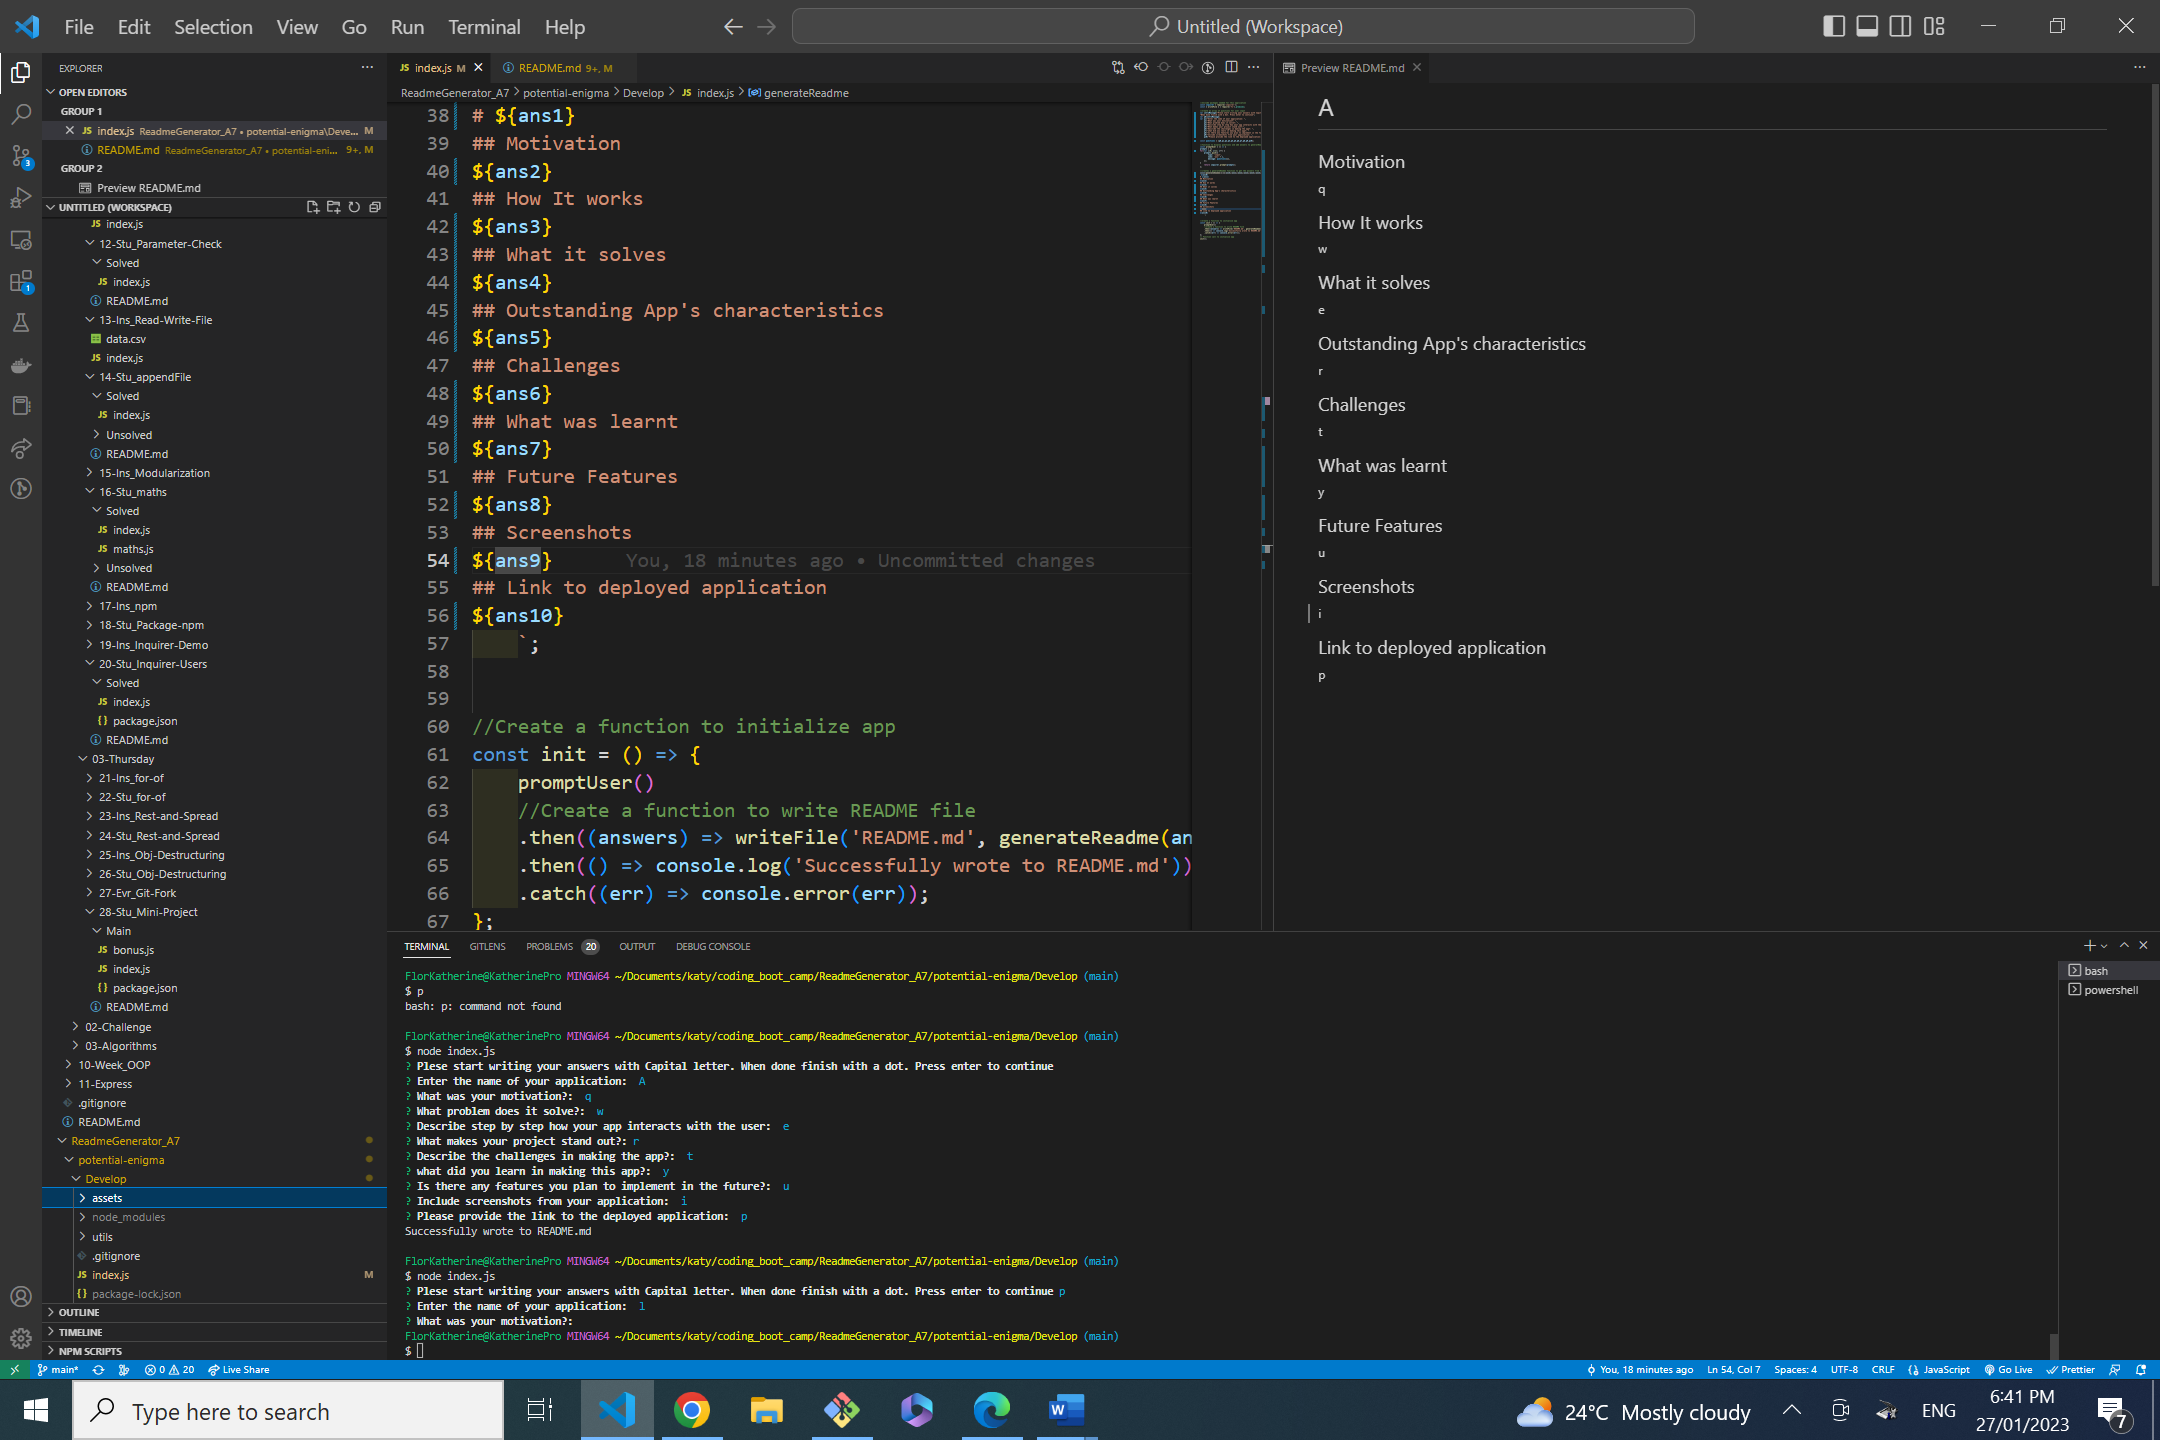
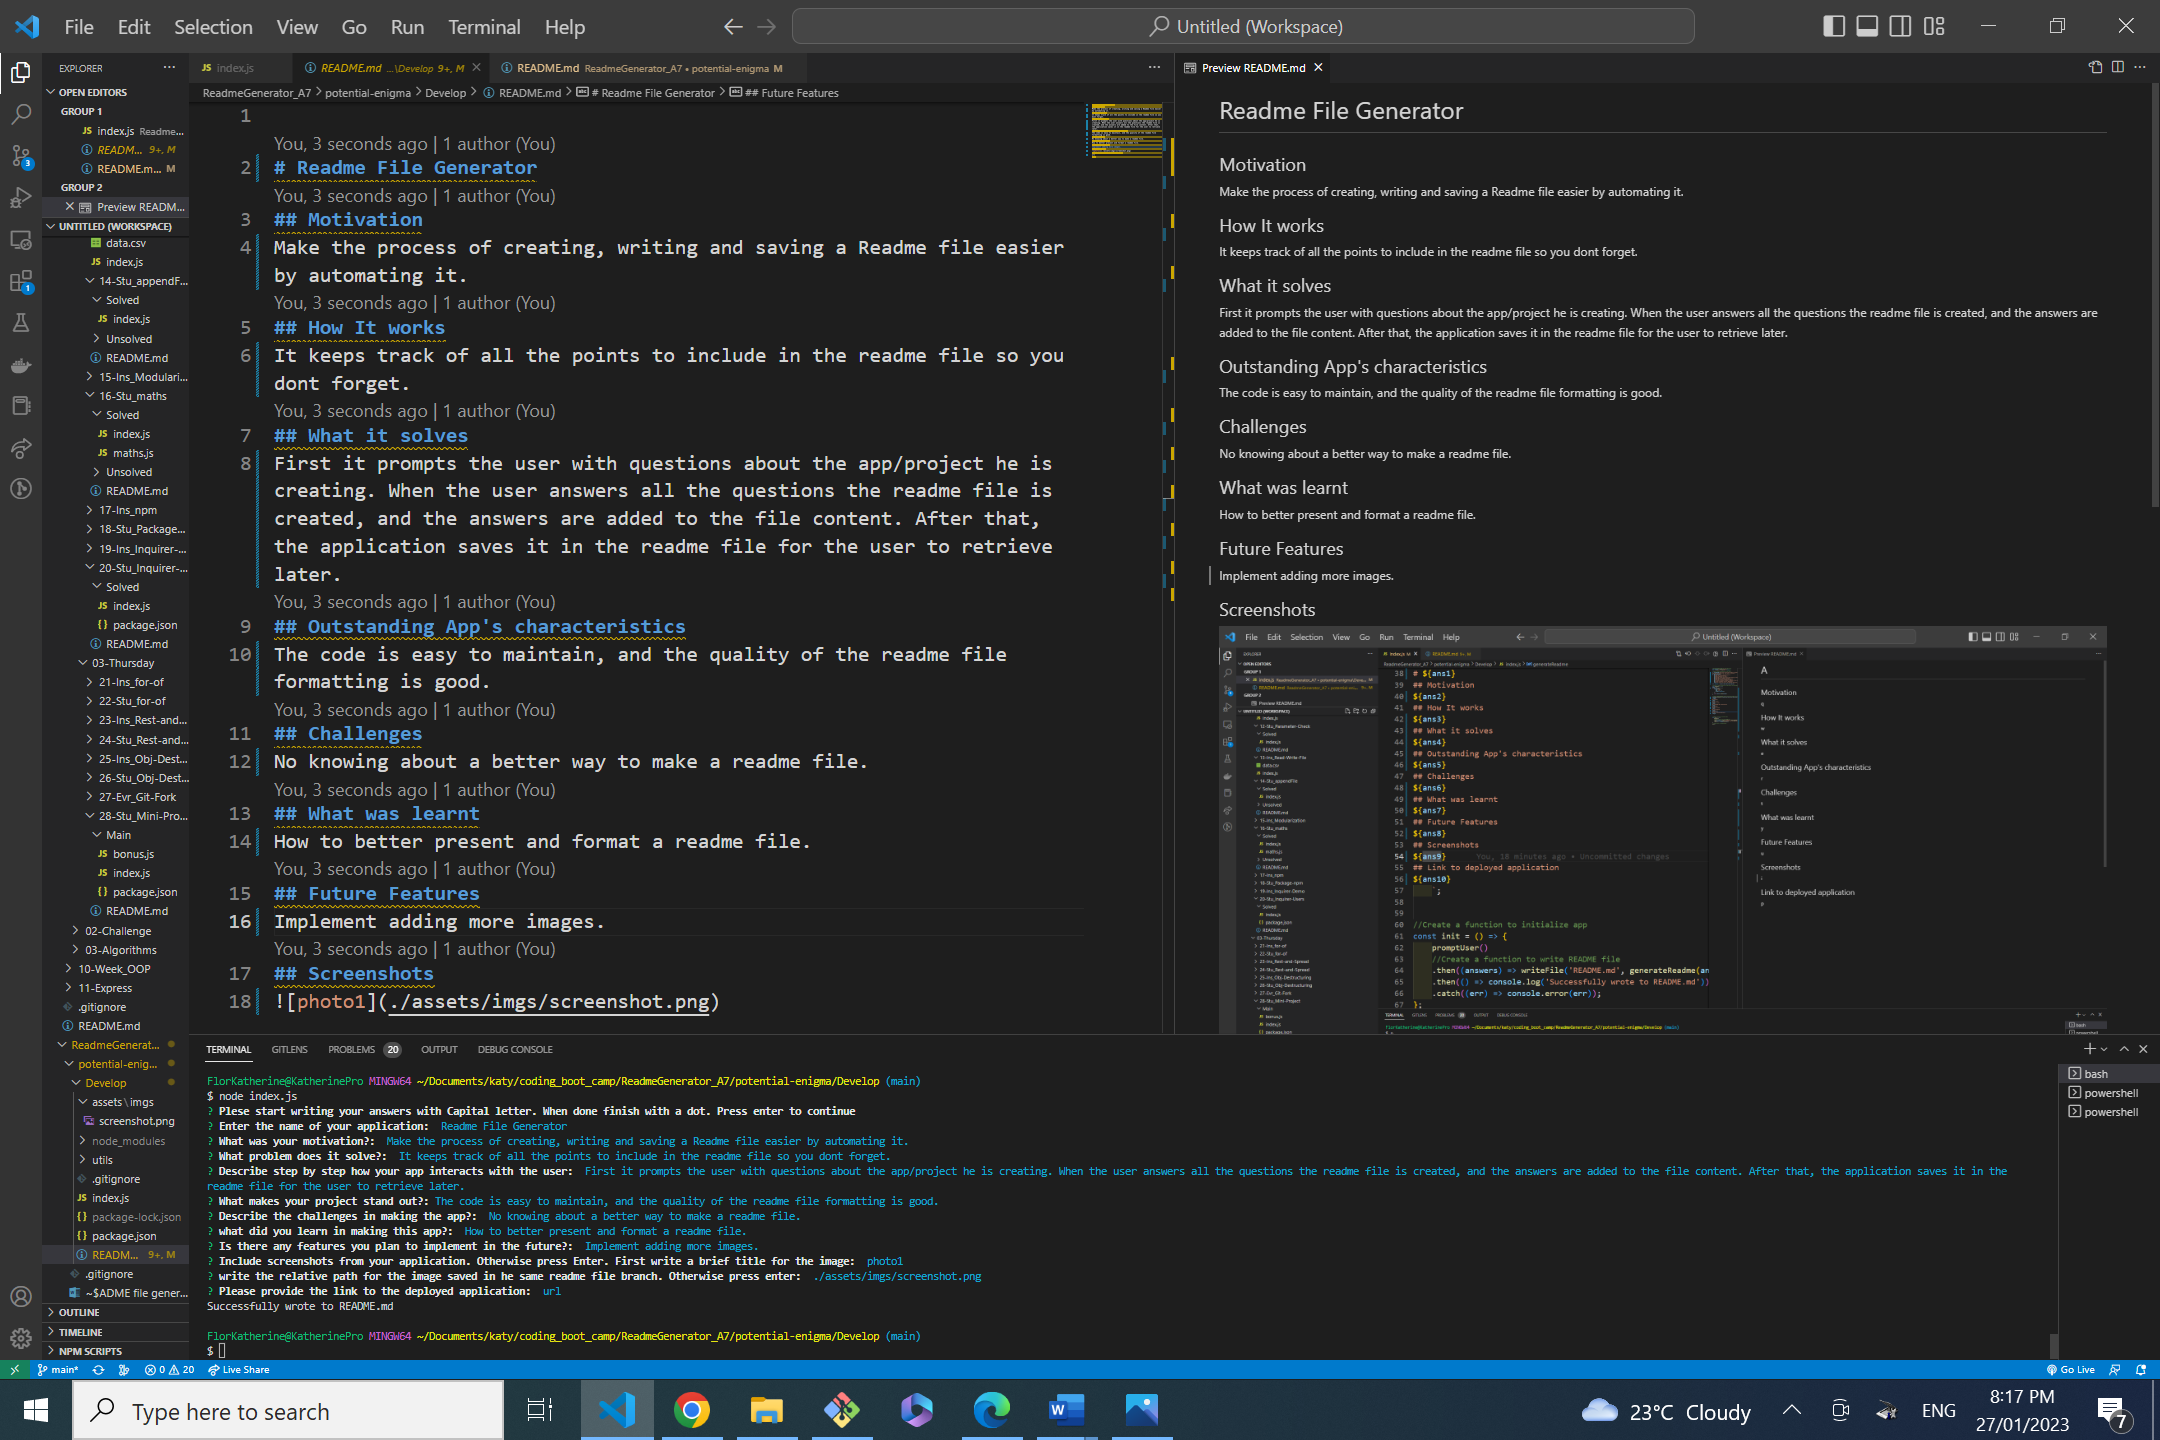
Final commit.

diff --git a/README.md b/README.md
@@ -1,3 +1,38 @@
-# Professional README Generator Starter Code
 
-[How to create a Professional README](https://coding-boot-camp.github.io/full-stack/github/professional-readme-guide)
+# Readme File Generator
+
+## Motivation
+
+Make the process of creating, writing and saving a Readme file easier by automating it.
+
+## How It works
+
+It keeps track of all the points to include in the readme file so you dont forget.
+
+## What it solves
+
+First it prompts the user with questions about the app/project he is creating. When the user answers all the questions the readme file is created, and the answers are added to the file content. After that, the application saves it in the readme file for the user to retrieve later.
+
+## Outstanding App's characteristics
+
+The code is easy to maintain, and the quality of the readme file formatting is good.
+
+## Challenges
+
+No knowing about a better way to make a readme file.
+
+## What was learnt
+
+How to better present and format a readme file.
+
+## Future Features
+
+Implement adding more images.
+
+## Screenshots
+
+![photo1](./Develop/assets/imgs/screenshot.png)
+
+## Link to deployed application
+
+<https://katita81.github.io/potential-enigma>

diff --git a/Develop/README.md b/Develop/README.md
@@ -1,21 +1,21 @@
 
-# a
+# Readme File Generator
 ## Motivation
-q
+Make the process of creating, writing and saving a Readme file easier by automating it.
 ## How It works
-w
+It keeps track of all the points to include in the readme file so you dont forget.
 ## What it solves
-e
+First it prompts the user with questions about the app/project he is creating. When the user answers all the questions the readme file is created, and the answers are added to the file content. After that, the application saves it in the readme file for the user to retrieve later.
 ## Outstanding App's characteristics
-r
+The code is easy to maintain, and the quality of the readme file formatting is good.
 ## Challenges
-t
+No knowing about a better way to make a readme file.
 ## What was learnt
-y
+How to better present and format a readme file.
 ## Future Features
-u
+Implement adding more images.
 ## Screenshots
-![]()
+![photo1](./assets/imgs/screenshot.png)
 ## Link to deployed application
-lklkl
+url
     
